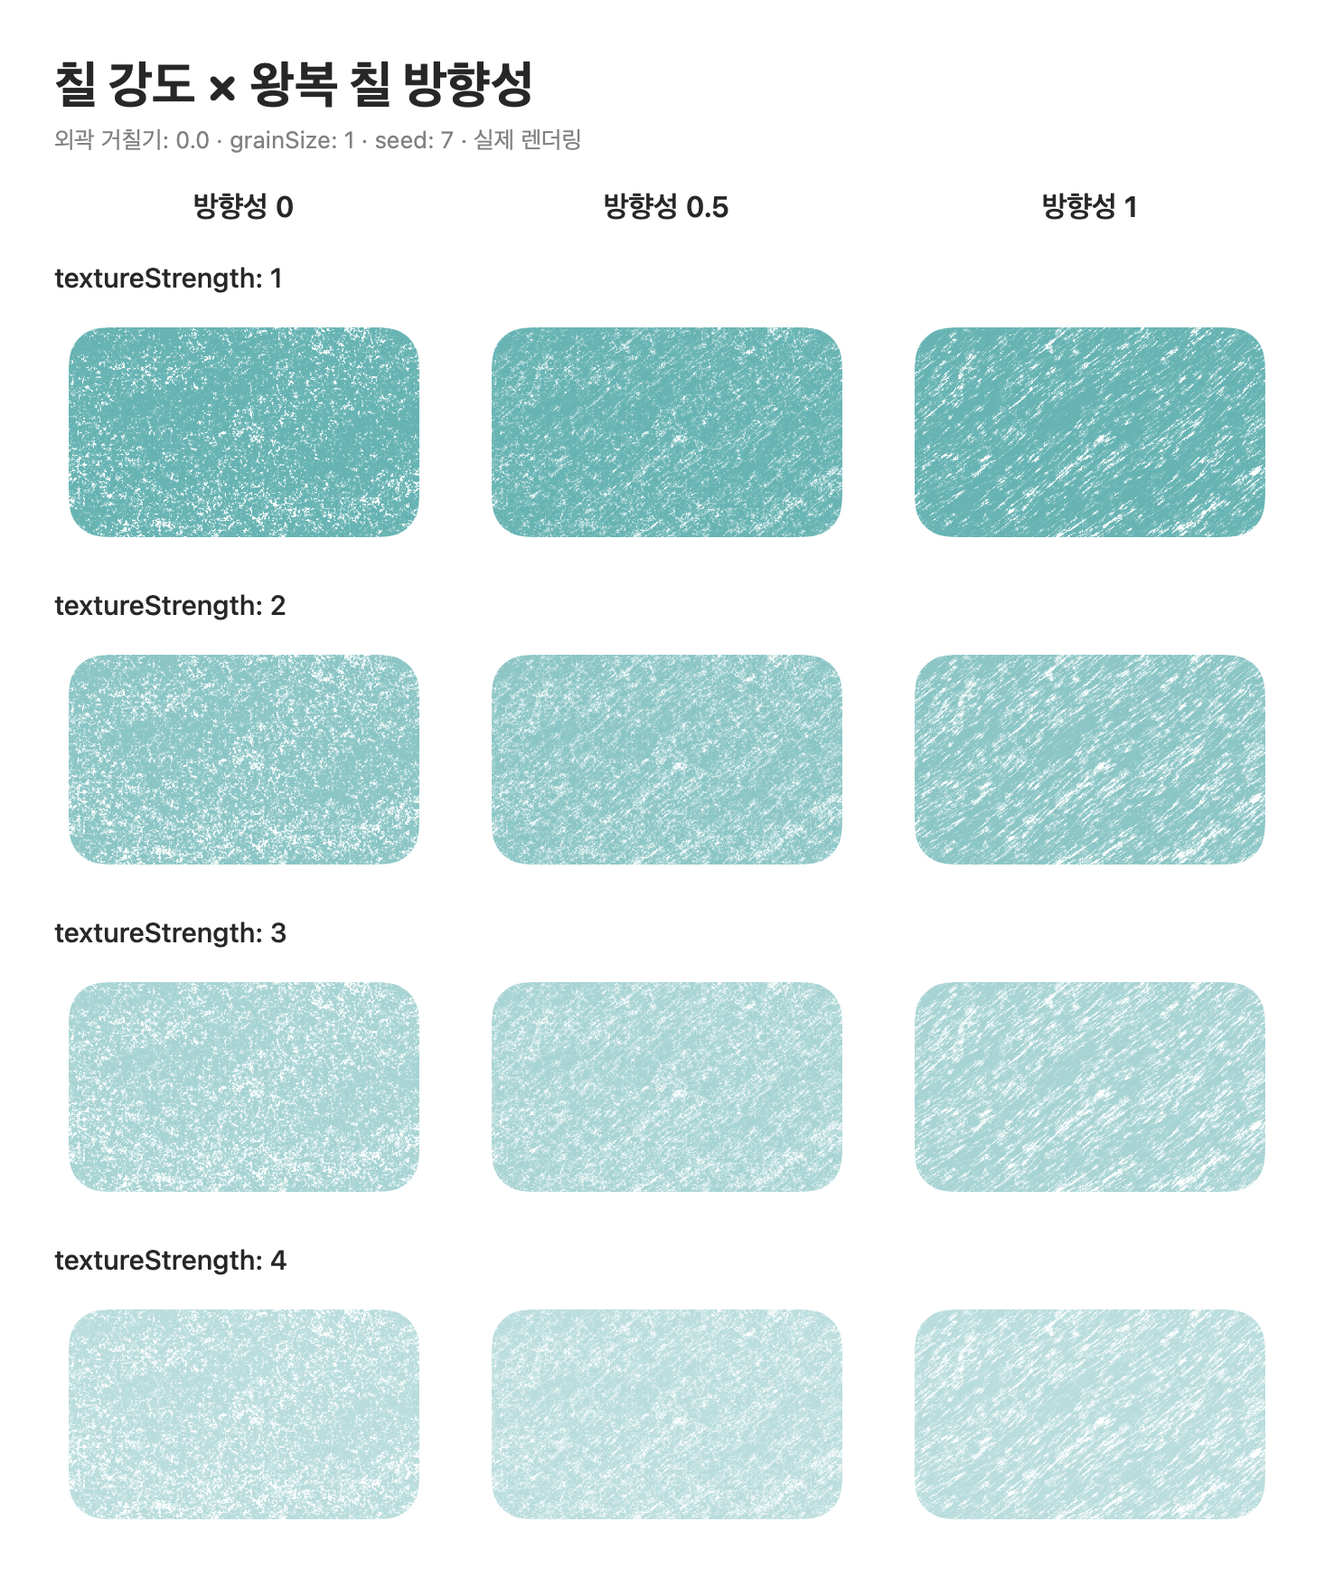
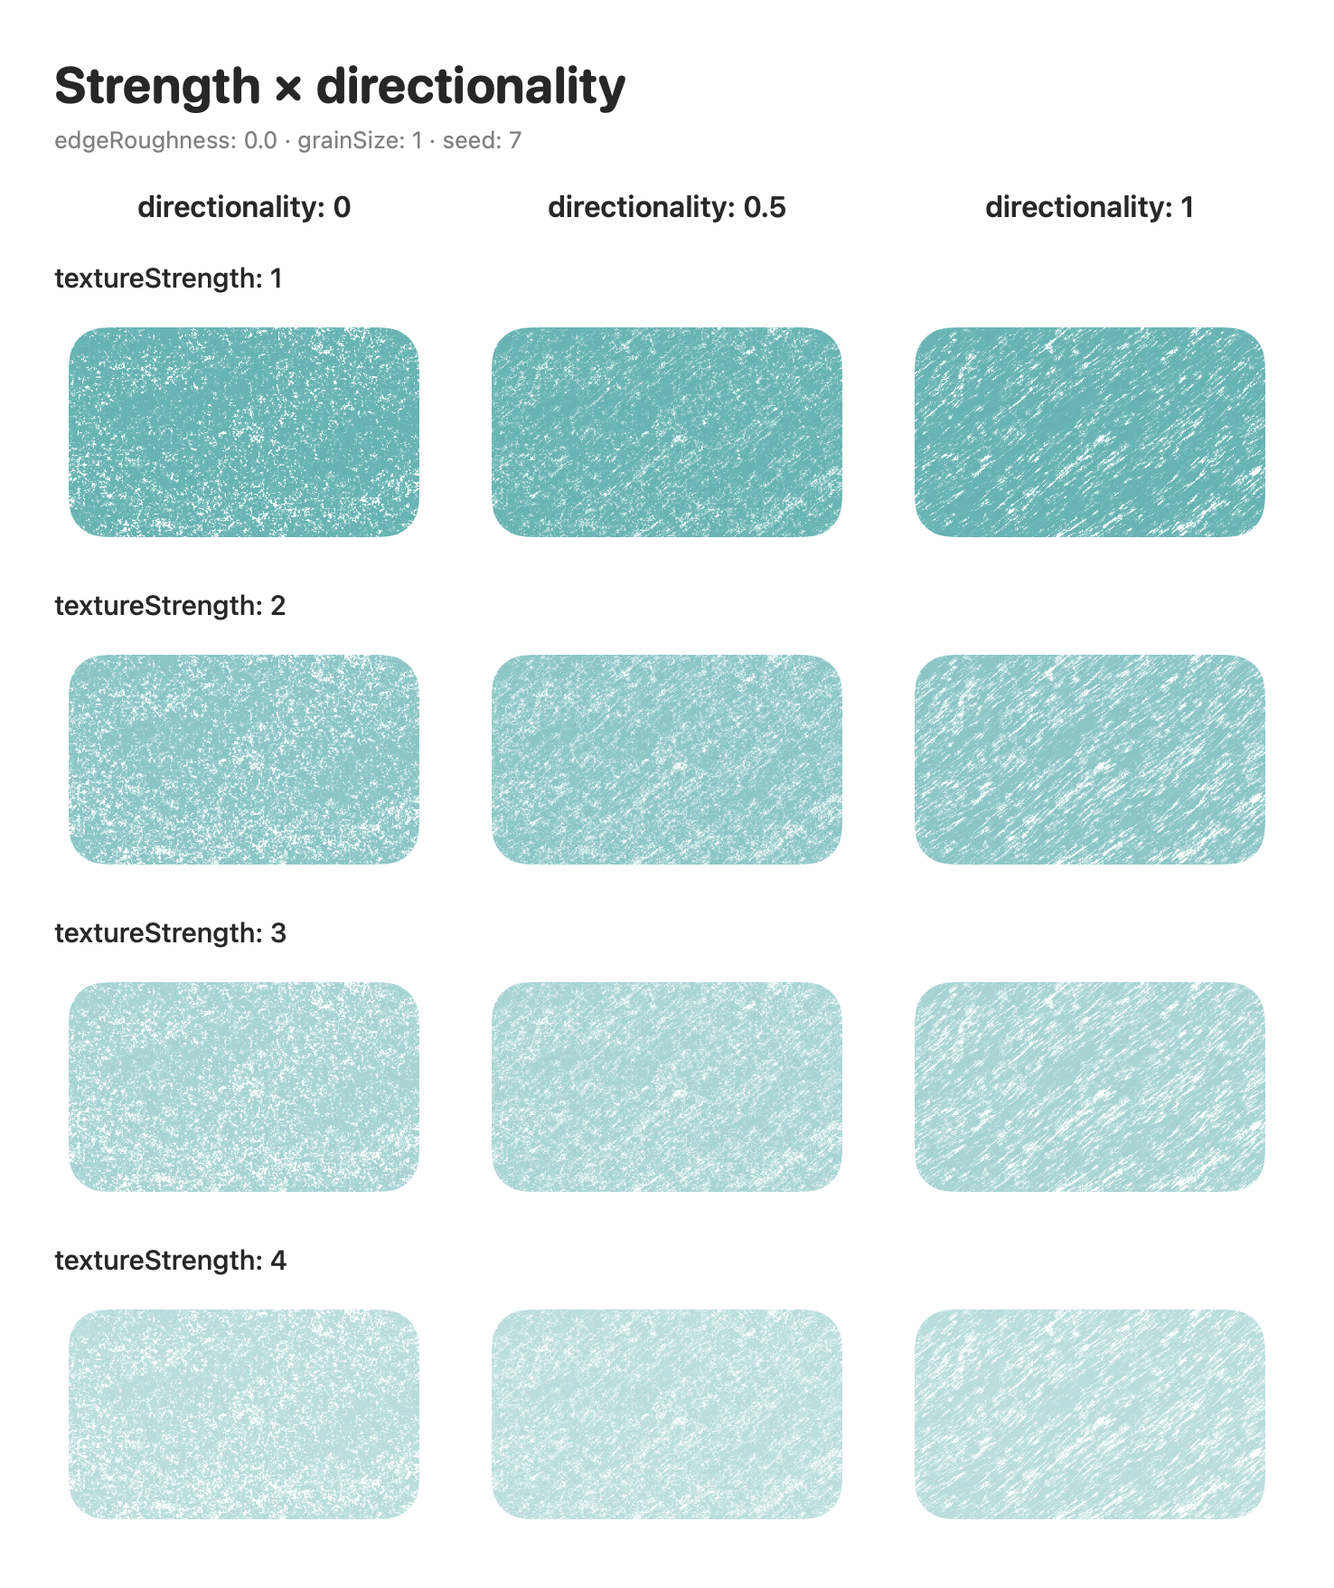
Improve README guides and refresh crayon control previews

diff --git a/Tools/PreviewGenerator/Sources/PreviewGenerator/PreviewGenerator.swift b/Tools/PreviewGenerator/Sources/PreviewGenerator/PreviewGenerator.swift
@@ -13,11 +13,12 @@ struct PreviewGenerator {
     static func main() throws {
         let output = URL(fileURLWithPath: CommandLine.arguments.dropFirst().first ?? "Documentation/Images",
                          isDirectory: true)
+        let generateAll = CommandLine.arguments.contains("--all")
         try FileManager.default.createDirectory(at: output, withIntermediateDirectories: true)
-        if CommandLine.arguments.contains("--reference-colors") {
+        if generateAll || CommandLine.arguments.contains("--reference-colors") {
             try save("crayon-reference-colors", to: output, content:
                 VStack(alignment: .leading, spacing: 22) {
-                    heading("크레용 질감 수정", detail: "실제 렌더링 · textureStrength: 1 · grainSize: 1 · 외곽 거칠기: 0.5")
+                    heading("크레용 질감 수정", detail: "실제 렌더링 · textureStrength: 1 · grainSize: 1 · edgeRoughness: 0.5")
                     HStack(spacing: 24) {
                         ForEach(0..<2) { index in
                             RoundedRectangle(cornerRadius: 36)
@@ -28,9 +29,9 @@ struct PreviewGenerator {
                         }
                     }.padding(6)
                 }.padding(24))
-            return
+            if !generateAll { return }
         }
-        if CommandLine.arguments.contains("--reference-texture") {
+        if generateAll || CommandLine.arguments.contains("--reference-texture") {
             try save("crayon-reference-texture", to: output, content:
                 VStack(alignment: .leading, spacing: 20) {
                     heading("종이 결 위에 쌓이는 크레용", detail: "실제 렌더링 · textureStrength: 1 · grainSize: 1 · seed: 7")
@@ -39,16 +40,16 @@ struct PreviewGenerator {
                                    fillStyle: .crayon(seed: 7, edgeRoughness: 0), renderingMode: .synchronous)
                         .frame(width: 470, height: 650)
                 }.padding(24))
-            return
+            if !generateAll { return }
         }
-        if CommandLine.arguments.contains("--compare-directionality") {
+        if generateAll || CommandLine.arguments.contains("--compare-directionality") {
             for edge in [0.0, 0.8] {
                 try save(edge == 0 ? "crayon-directionality-clean" : "crayon-directionality", to: output, content:
                     VStack(alignment: .leading, spacing: 20) {
-                        heading("칠 강도 × 왕복 칠 방향성", detail: "외곽 거칠기: \(edge) · grainSize: 1 · seed: 7 · 실제 렌더링")
+                        heading("Strength × directionality", detail: "edgeRoughness: \(edge) · grainSize: 1 · seed: 7")
                         HStack(spacing: 24) {
                             ForEach([0.0, 0.5, 1.0], id: \.self) { direction in
-                                Text("방향성 \(direction.formatted())")
+                                Text("directionality: \(direction.formatted())")
                                     .font(.system(size: 16, weight: .semibold)).frame(width: 210)
                             }
                         }
@@ -68,12 +69,12 @@ struct PreviewGenerator {
                         }
                     }.padding(30))
             }
-            return
+            if !generateAll { return }
         }
-        if CommandLine.arguments.contains("--compare-coverage") {
+        if generateAll || CommandLine.arguments.contains("--compare-coverage") {
             try save("crayon-lighter-coverage", to: output, content:
                 VStack(alignment: .leading, spacing: 28) {
-                    heading("부드러운 크레용 결 · 강도별 비교", detail: "외곽 거칠기 0.8 고정 · grainSize: 1 · seed: 7 · 실제 렌더링")
+                    heading("Lighter crayon fills", detail: "edgeRoughness: 0.8 · directionality: 0 · seed: 7")
                     ForEach([1.0, 3.0], id: \.self) { start in
                         HStack(spacing: 36) {
                             ForEach([start, start + 1], id: \.self) { strength in
@@ -90,19 +91,19 @@ struct PreviewGenerator {
                         }
                     }
                 }.padding(36))
-            return
+            if !generateAll { return }
         }
-        if CommandLine.arguments.contains("--compare-edges") {
+        if generateAll || CommandLine.arguments.contains("--compare-edges") {
             try save("crayon-independent-controls", to: output, content:
                 VStack(alignment: .leading, spacing: 30) {
-                    heading("내부 빈틈 × 외곽 거칠기", detail: "실제 Crayon 렌더링 · 동일한 색 / grainSize: 1 / seed: 7")
+                    heading("Fill and edge are independent", detail: "directionality: 0 · grainSize: 1 · seed: 7")
                     HStack(spacing: 36) {
-                        Text("외곽 매끈 · 0").frame(width: 300)
-                        Text("외곽 거침 · 1").frame(width: 300)
+                        Text("edgeRoughness: 0").frame(width: 300)
+                        Text("edgeRoughness: 1").frame(width: 300)
                     }.font(.system(size: 18, weight: .semibold))
                     ForEach([0.0, 1.0], id: \.self) { strength in
                         VStack(alignment: .leading, spacing: 16) {
-                            Text(strength == 0 ? "내부 꽉 채움 · textureStrength: 0" : "내부 빈틈 많음 · textureStrength: 1")
+                            Text(strength == 0 ? "textureStrength: 0 · solid" : "textureStrength: 1 · paper grain")
                                 .font(.system(size: 16, weight: .medium))
                             HStack(spacing: 36) {
                                 ForEach([0.0, 1.0], id: \.self) { roughness in
@@ -117,15 +118,26 @@ struct PreviewGenerator {
                         }
                     }
                 }.padding(36))
-            return
+            if !generateAll { return }
         }
         try save("crayon", to: output, content:
             VStack(alignment: .leading, spacing: 24) {
-                heading("Crayon", detail: "Wax layers · paper grain · broken edges")
-                RoundedRectangle(cornerRadius: 26)
-                    .brushFill(color: yellow, textureStrength: 0.9,
-                               fillStyle: .crayon(seed: 7), renderingMode: .synchronous)
-                    .frame(width: 680, height: 270)
+                heading("Crayon", detail: "Soft paper grain. Back-and-forth rubs. Independent edges.")
+                HStack(spacing: 24) {
+                    ForEach(0..<3) { index in
+                        VStack(spacing: 18) {
+                            RoundedRectangle(cornerRadius: 24)
+                                .brushFill(color: Color(red: 0.40, green: 0.70, blue: 0.70),
+                                           textureStrength: index == 2 ? 3 : 1,
+                                           fillStyle: .crayon(seed: 7, edgeRoughness: 0.8,
+                                                              directionality: index == 0 ? 0 : 0.7),
+                                           renderingMode: .synchronous)
+                                .frame(width: 210, height: 160)
+                            label(["Soft grain", "Directional rubs", "Light touch"][index],
+                                  detail: ["strength 1 · directionality 0", "strength 1 · directionality 0.7", "strength 3 · directionality 0.7"][index])
+                        }
+                    }
+                }
             }.padding(36))
         try save("drawing-styles", to: output, content:
             VStack(alignment: .leading, spacing: 28) {

diff --git a/README.md b/README.md
@@ -7,7 +7,7 @@ AI-friendly package guide: [llms.txt](https://github.com/eraser3031/crayon/blob/
 A Swift package for crayon fills, brush strokes, rough edges, and line-boil animation in SwiftUI.
 Create crayon textures without external images, or supply your own brush tip and grain.
 
-![Crayon fill with subtle diagonal layers, paper gaps, and rough edges](Documentation/Images/crayon.png)
+![Crayon: soft grain, directional rubs, and a light touch](Documentation/Images/crayon.png)
 
 - **Requirements:** iOS 17+ · macOS 14+ · Swift tools 5.9+
 - **Product / import:** `Crayon`
@@ -28,8 +28,8 @@ struct Drawing: View {
         RoundedRectangle(cornerRadius: 24)
             .brushFill(
                 color: Color(red: 1, green: 0.84, blue: 0.25),
-                textureStrength: 0.9,
-                fillStyle: .crayon(grainSize: 1, seed: 7)
+                textureStrength: 1,
+                fillStyle: .crayon(seed: 7, edgeRoughness: 0.8, directionality: 0.5)
             )
             .frame(width: 280, height: 180)
             .padding(16)
@@ -70,16 +70,38 @@ Custom tips change the appearance of `.grain` fills and brush strokes.
 Select `fillStyle` on **the same `brushFill` API**.
 No separate crayon modifier or texture image is required.
 
-The renderer accumulates wax over fixed paper relief.
-Soft, fine paper grain is distributed throughout the fill, while broad, gently curved rubbing marks vary its density. Gradual wax contact avoids sharp directional scratches.
-The boundary reflects uneven stopping positions and fine grain, without a separate outline.
+Three independent controls shape the result:
 
-![Crayon texture strength at 0, 0.5, and 1](Documentation/Images/crayon-strength.png)
+- **`textureStrength`** changes the interior: 0 is solid, 1 shows paper grain, and 2–4 make the wax lighter. Higher values mean a lighter fill, not darker pigment.
+- **`edgeRoughness`** changes the boundary: 0 keeps the original shape, 1 gives the roughest edge.
+- **`directionality`** changes how strongly back-and-forth rubbing appears: 0 keeps soft grain, 1 reveals diagonal rubs. It controls their prominence, not their angle.
+
+### Compare strength and directionality
+
+Rows vary `textureStrength` from 1 to 4; columns vary `directionality` from 0 to 1. Every tile uses the same color, seed, and `edgeRoughness: 0.8`.
+
+![Strength 1–4 by directionality 0, 0.5, and 1](Documentation/Images/crayon-directionality.png)
+
+[Compare the same grid with clean edges (`edgeRoughness: 0`)](Documentation/Images/crayon-directionality-clean.png).
+
+### Lighter fills
+
+The same fine paper grain remains as less wax is deposited. Directionality is fixed at 0 and edge roughness at 0.8.
+
+![Crayon strength 1, 2, 3, and 4](Documentation/Images/crayon-lighter-coverage.png)
+
+### Independent edges
+
+A solid interior can have a rough edge, and a textured interior can have a clean edge. At `textureStrength: 0`, directionality has no visible effect because the interior is solid.
+
+![Solid and textured fills with clean and rough edges](Documentation/Images/crayon-independent-controls.png)
+
+### Parameters
 
 | Setting | Default | Description |
 | --- | --- | --- |
 | `color` | `.primary` | Fill color. Its opacity is preserved. |
-| `textureStrength` | `0.8` | `0...4` for crayon (`0...1` for grain). 0 is solid; 1 keeps the original paper gaps; 2–4 deposit less wax evenly across the fill for a lighter color with fine paper grain; they do not add blank bands or enlarge paper gaps. Does not change edge roughness. |
+| `textureStrength` | `0.8` | `0...4` for crayon (`0...1` for grain). 0 is solid; 1 reveals paper grain; 2–4 deposit less wax evenly across the fill for a lighter color with fine paper grain; they do not add blank bands or enlarge paper gaps. Does not change edge roughness. |
 | `.crayon(grainSize:)` | `1` | `0.5...4`. Controls the spatial size of paper grain and wax marks. |
 | `.crayon(edgeRoughness:)` | `0.8` | `0...1`. 0 preserves the original boundary; 1 gives full edge displacement, independently of `textureStrength`. |
 | `.crayon(directionality:)` | `0` | `0...1`. Blends soft grain into overlapping diagonal back-and-forth rubs. Controls the visibility of direction, not its angle. Independent of edge roughness and strength. |
@@ -89,21 +111,13 @@ The boundary reflects uneven stopping positions and fine grain, without a separa
 `grainScale` and `BrushTip` apply to the `.grain` style.
 `fillStyle` selects the texture; the separate `style: FillStyle` controls SwiftUI's even-odd fill rule and antialiasing.
 
+### Layout and rendering
+
 Layout dimensions stay unchanged, but crayon pigment can extend slightly beyond the original boundary.
 The rendering margin is `ceil(5 × grainSize × edgeRoughness) + 1` pt.
-An ancestor's `.clipped()` can trim this pigment. At edge roughness 0, there is no extra overhang. Set both strengths to 0 for a solid fill with a clean boundary. Existing calls use a fixed edge roughness of 0.8; pass the same value as `textureStrength` to reproduce the former coupled behavior.
+An ancestor's `.clipped()` can trim this pigment. At edge roughness 0, there is no extra overhang. Set `textureStrength` and `edgeRoughness` to 0 for a solid fill with a clean boundary. For migration from 0.1.x, see the [0.2.0 changelog](CHANGELOG.md#020--2026-09-29).
 
 By default, `.crayon` computes its coverage image off the main actor. When `textureStrength`, `edgeRoughness`, `directionality`, or geometry changes, the previous texture remains visible until the new image is ready; rapid changes cancel obsolete work. The first appearance shows a solid fill until the texture is ready. Large fills still consume CPU and memory, so keeping texture strength fixed can help during frequent interaction. For a one-shot `ImageRenderer` export, pass `renderingMode: .synchronous` to include the texture in the first image. This mode performs the expensive calculation on the main actor. `.grain` fills use the shared raster cache, which coalesces changes for about 120 ms and also renders on the main actor.
-
-The three independent controls can be combined:
-
-```swift
-RoundedRectangle(cornerRadius: 24)
-    .brushFill(color: .teal, textureStrength: 2,
-               fillStyle: .crayon(edgeRoughness: 0.8, directionality: 0.5))
-```
-
-![Strength 1–4 by directionality 0, 0.5, and 1](Documentation/Images/crayon-directionality.png)
 
 ## Brush fills and strokes
 
@@ -174,7 +188,7 @@ Open [CrayonSample.xcodeproj](Examples/CrayonSample/CrayonSample.xcodeproj) in X
 select the `CrayonSample` scheme, and run on an iOS Simulator or My Mac.
 It references this repository's package locally, so no separate installation is needed.
 
-Change the color, texture strength, and crayon mark size to compare crayon fills, default grain,
+Change the color, texture strength, edge roughness, directionality, and crayon mark size to compare crayon fills, default grain,
 brush strokes, and edge textures. A toggle turns line-boil animation on and off.
 
 If another open project uses the same local package, Xcode may report
@@ -227,8 +241,8 @@ into 2× PNGs using fixed seeds and light mode.
 
 ```sh
 swift run --package-path Tools/PreviewGenerator --build-system native \
-  PreviewGenerator Documentation/Images
+  PreviewGenerator Documentation/Images --all
 ```
 
-The generator produces static previews of crayon fills, grain fills, and brush strokes.
+The `--all` option regenerates every preview, including the strength × directionality grids and independent-edge comparison. Use `--compare-directionality`, `--compare-coverage`, or `--compare-edges` to regenerate only one comparison. Images use synchronous rendering to capture the finished texture.
 Use the sample app for Metal-based edge effects and line-boil animation.

diff --git a/README.zh-CN.md b/README.zh-CN.md
@@ -26,8 +26,8 @@ struct Drawing: View {
         RoundedRectangle(cornerRadius: 24)
             .brushFill(
                 color: Color(red: 1, green: 0.84, blue: 0.25),
-                textureStrength: 0.9,
-                fillStyle: .crayon(grainSize: 1, seed: 7)
+                textureStrength: 1,
+                fillStyle: .crayon(seed: 7, edgeRoughness: 0.8, directionality: 0.5)
             )
             .frame(width: 280, height: 180)
             .padding(16)
@@ -67,11 +67,33 @@ struct Drawing: View {
 在**同一个 `brushFill` API** 中通过 `fillStyle` 选择蜡笔样式。
 无需额外的蜡笔修饰符或纹理图片。
 
-渲染器简化模拟了三次涂抹的蜡层在固定纸面凹凸上堆积的过程。
-默认使用柔和的纸面纹理；提高 `directionality` 会显现斜向往返涂抹的痕迹。
-边缘也会体现收笔位置和细小颗粒的变化，不会额外绘制轮廓线。
+### 三个独立控制维度
 
-![蜡笔纹理强度 0、0.5 和 1 的对比](Documentation/Images/crayon-strength.png)
+`textureStrength` 控制内部涂色：0 为纯色，1 显示纸面纹理，2–4 逐渐变淡。数值越高，颜色越淡，而非越浓。
+
+`edgeRoughness` 控制边缘粗糙度（0–1），`directionality` 控制往返涂抹痕迹的明显程度（0–1），不改变方向角度。强度为 0 的纯色内部不显示方向性的差异。
+
+### 强度 × 方向性
+
+行对应强度 1–4，列对应方向性 0、0.5、1。颜色、种子和边缘粗糙度 0.8 保持不变。
+
+![强度 × 方向性](Documentation/Images/crayon-directionality.png)
+
+[查看边缘粗糙度为 0 的相同组合](Documentation/Images/crayon-directionality-clean.png)
+
+### 更淡的涂色
+
+固定方向性为 0、边缘粗糙度为 0.8，仅改变强度。
+
+![更淡的涂色](Documentation/Images/crayon-lighter-coverage.png)
+
+### 独立控制边缘
+
+可以为纯色内部添加粗糙边缘，也可以保留纸面纹理并使用平滑边缘。
+
+![独立控制边缘](Documentation/Images/crayon-independent-controls.png)
+
+### 参数
 
 | 设置 | 默认值 | 说明 |
 | --- | --- | --- |
@@ -90,7 +112,9 @@ struct Drawing: View {
 渲染预留空间为 `ceil(5 × grainSize × edgeRoughness) + 1` pt。
 父视图的 `.clipped()` 可能裁掉这些颗粒。`edgeRoughness: 0` 时不会额外向外延伸。
 
-默认情况下，`.crayon` 的纹理图像在主 actor 之外计算。`textureStrength` 或尺寸变化时，旧纹理会保留到新图像完成；连续变化会取消过时的计算。首次显示时先使用纯色填充，待纹理准备好后再更新。大面积填充仍会消耗 CPU 和内存，因此频繁交互时固定强度有助于降低开销。使用一次性 `ImageRenderer` 导出时，请指定 `renderingMode: .synchronous`，以便第一张图像包含纹理；此模式在主 actor 上计算。`.grain` 填充使用共享栅格缓存，约 120 毫秒内的变化会合并，然后在主 actor 上重绘。
+默认情况下，`.crayon` 的纹理图像在主 actor 之外计算。`textureStrength`、`edgeRoughness`、`directionality` 或尺寸变化时，旧纹理会保留到新图像完成；连续变化会取消过时的计算。首次显示时先使用纯色填充，待纹理准备好后再更新。大面积填充仍会消耗 CPU 和内存，因此频繁交互时固定强度有助于降低开销。使用一次性 `ImageRenderer` 导出时，请指定 `renderingMode: .synchronous`，以便第一张图像包含纹理；此模式在主 actor 上计算。`.grain` 填充使用共享栅格缓存，约 120 毫秒内的变化会合并，然后在主 actor 上重绘。
+
+从 0.1.x 迁移时，边缘粗糙度现在默认固定为 `0.8`，与强度独立。若要保留原边缘位移，请将之前的强度（0–1）显式传给 `edgeRoughness`。内部纹理已改变，详见[更新日志](CHANGELOG.md)。
 
 ## 笔刷填充与描边
 
@@ -204,7 +228,7 @@ native 构建系统仅复制 Metal 源文件，因此还需要执行上面的 Xc
 swift test --build-system native
 ```
 
-Validation (0.2.0): **15 regression tests passed** with `swift test --build-system native`. Metal shader compilation is not verified for this release.
+0.2.0 验证：通过 `swift test --build-system native`，**15 项回归测试通过**。此版本的 Metal 着色器编译尚未验证。
 请在示例应用中查看实际效果与动画。根目录的包是库，没有可供 `swift run` 运行的目标。
 
 ### 重新生成预览图片
@@ -214,8 +238,10 @@ Validation (0.2.0): **15 regression tests passed** with `swift test --build-syst
 
 ```sh
 swift run --package-path Tools/PreviewGenerator --build-system native \
-  PreviewGenerator Documentation/Images
+  PreviewGenerator Documentation/Images --all
 ```
 
 此工具生成蜡笔填充、颗粒填充和笔刷描边的静态预览。
 基于 Metal 的边缘效果和手绘抖动请在示例应用中查看。
+
+`--all` 会重新生成所有图片，包括强度、方向性和边缘对比。也可使用 `--compare-directionality`、`--compare-coverage` 或 `--compare-edges` 单独生成。
